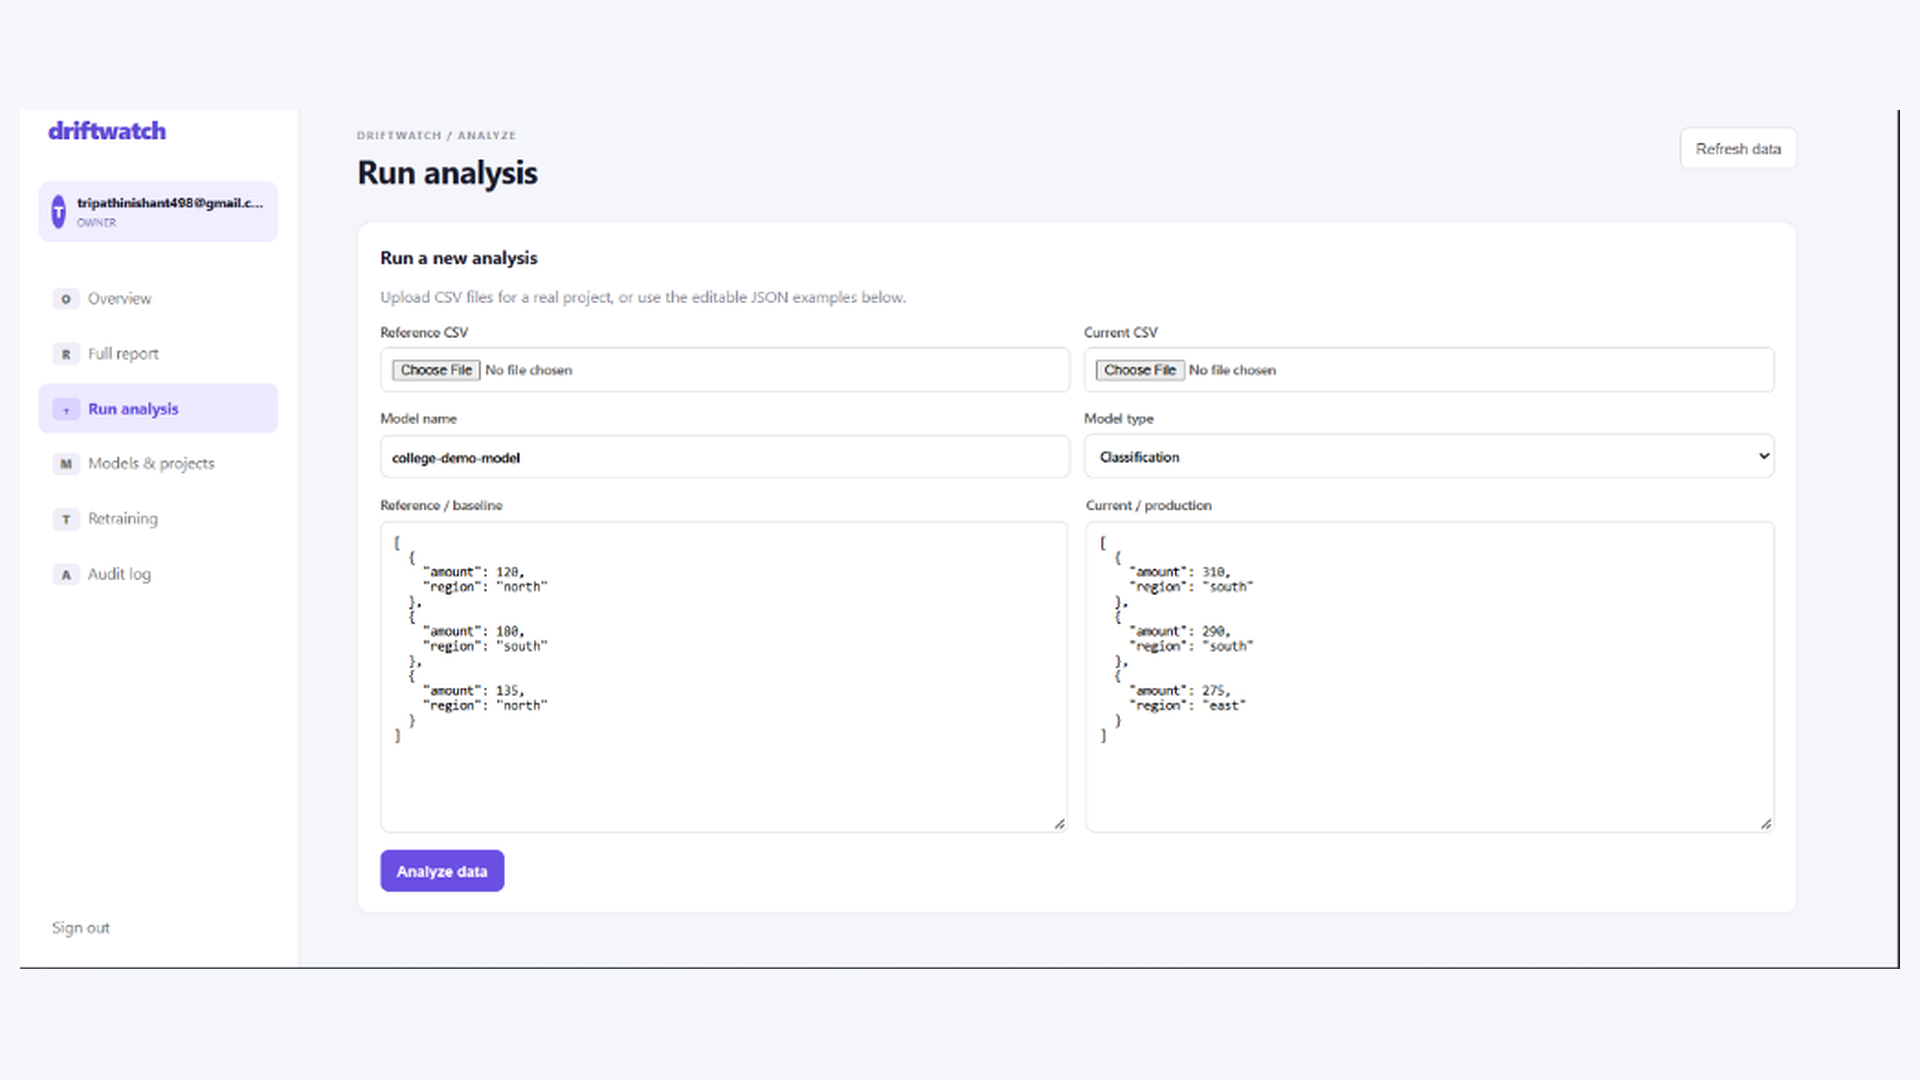
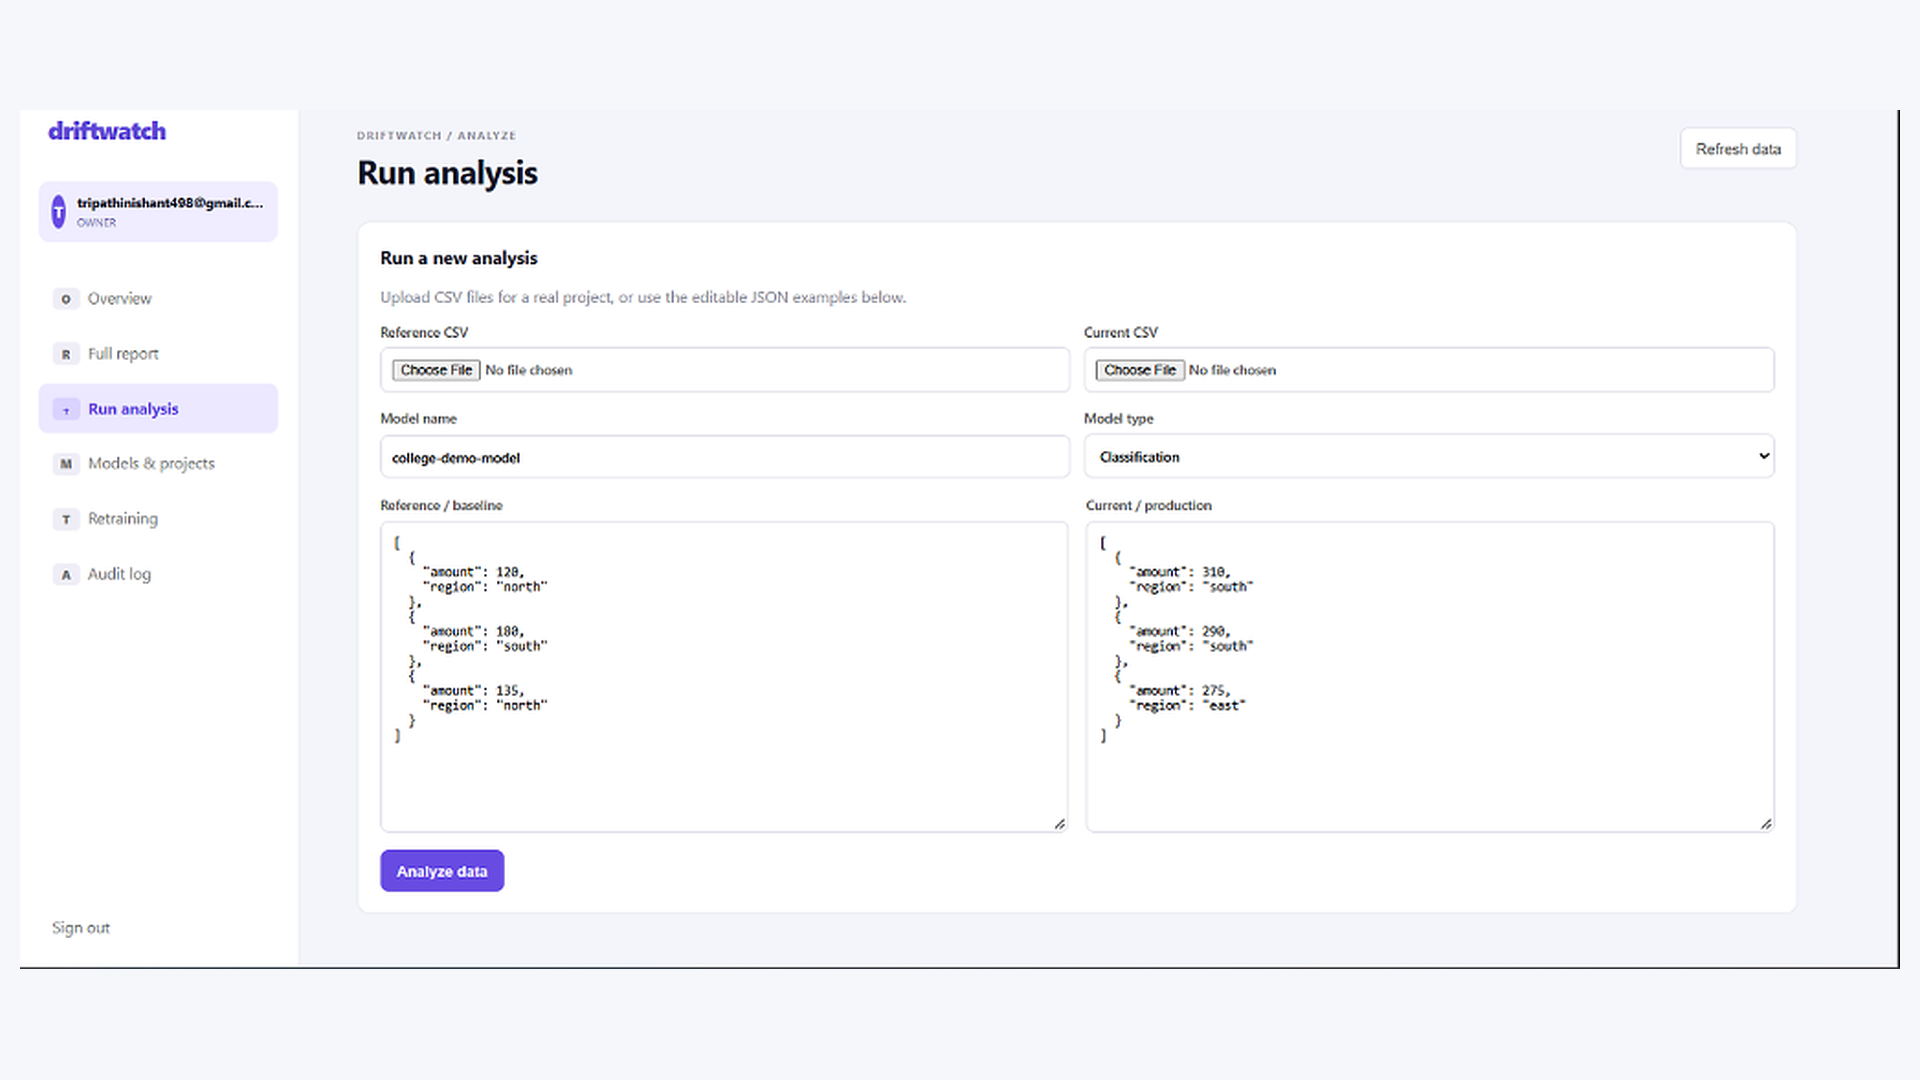
Replace raw captures with enhanced HD screenshots and add Retraining and Multimodal tabs

diff --git a/src/content.ts b/src/content.ts
@@ -61,7 +61,7 @@ export const testingSteps = [
 export const galleryScreenshots = [
   {
     id: "overview",
-    title: "Dashboard Overview",
+    title: "Overview",
     category: "Monitoring",
     caption: "Live workspace health, severity status, decision output, and historical monitoring trends.",
     image: "/images/dashboard-overview.png",
@@ -69,7 +69,7 @@ export const galleryScreenshots = [
   },
   {
     id: "report",
-    title: "Drift & Decision Trace",
+    title: "Full Report",
     category: "Reports",
     caption: "Full report view detailing drift rates, feature divergence charts, and transparent decision rule traces.",
     image: "/images/dashboard-report.png",
@@ -77,7 +77,7 @@ export const galleryScreenshots = [
   },
   {
     id: "features",
-    title: "Feature-Level Metrics",
+    title: "Feature Metrics",
     category: "Reports",
     caption: "Granular feature diagnostics showing statistical drift score, contributing factors, missingness, and drift status.",
     image: "/images/dashboard-features.png",
@@ -85,7 +85,7 @@ export const galleryScreenshots = [
   },
   {
     id: "quality",
-    title: "Data Quality & Performance",
+    title: "Data Quality",
     category: "Metrics",
     caption: "Data-quality findings, percentile outlier warnings, and classification performance diagnostics.",
     image: "/images/dashboard-quality.png",
@@ -108,12 +108,28 @@ export const galleryScreenshots = [
     alt: "DriftWatch Models and projects workspace management screen",
   },
   {
+    id: "retraining",
+    title: "Retraining",
+    category: "Actions",
+    caption: "Human-approved retraining recommendations, trigger requests from latest runs, and track approval history.",
+    image: "/images/dashboard-retraining.png",
+    alt: "DriftWatch Retraining approval screen",
+  },
+  {
     id: "audit",
-    title: "Organization Audit Log",
+    title: "Audit Log",
     category: "Governance",
-    caption: "Complete audit history tracking user actions, login events, and retraining approval workflows.",
+    caption: "Complete organization audit history tracking user actions, login events, and retraining workflows.",
     image: "/images/dashboard-audit.png",
     alt: "DriftWatch Organization Audit Log screen",
+  },
+  {
+    id: "multimodal",
+    title: "Multimodal",
+    category: "Extensibility",
+    caption: "Multimodal monitoring modules including text, image embeddings, ranking, and LLM/RAG signal evaluation.",
+    image: "/images/dashboard-multimodal.png",
+    alt: "DriftWatch Multimodal monitoring panel",
   },
 ];
 
